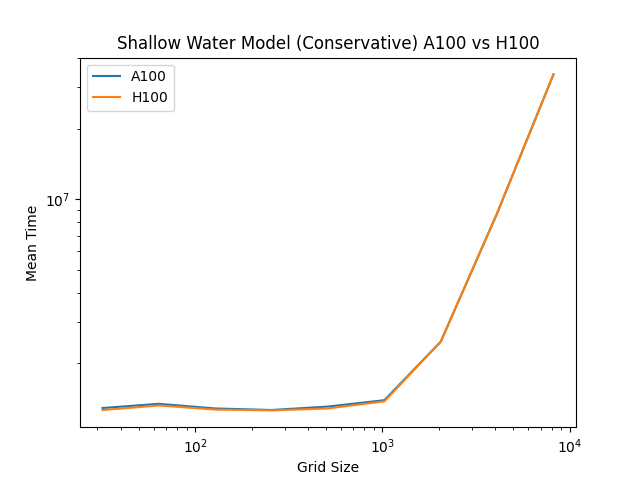
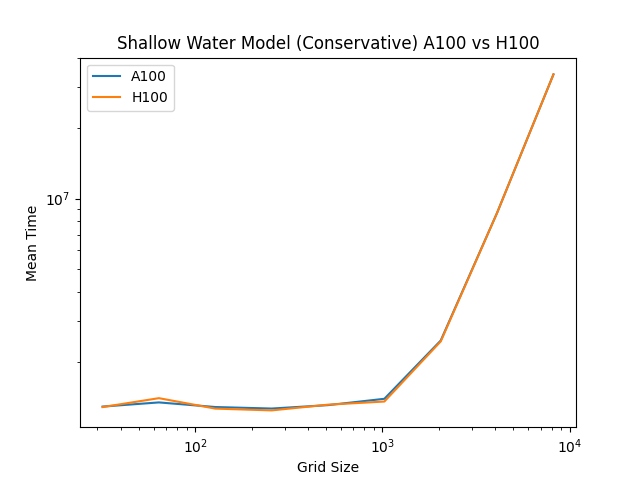
Ran benchmarks again

diff --git a/new_benchmarks/2d_plotter.py b/new_benchmarks/2d_plotter.py
@@ -8,7 +8,7 @@ non_hydrostatic_a100 = data_a100[(data_a100["Model"] == "Nonhydrostatic")]
 shallow_water_a100 = data_a100[(data_a100["Model"] == "ShallowWater")]
 shallow_water_conservative_a100 = data_a100[(data_a100["Model"] == "ShallowWaterConservative")]
 
-data_h100 = pd.read_csv("./H100.csv", delimiter=",",index_col=None)
+data_h100 = pd.read_csv("../../Oceananigans_Benchmark:2024-08-13T18:48:46.040.csv", delimiter=",",index_col=None)
 hydrostatic_h100 = data_h100[(data_h100["Model"] == "Hydrostatic")]
 non_hydrostatic_h100 = data_h100[(data_h100["Model"] == "Nonhydrostatic")]
 shallow_water_h100 = data_h100[(data_h100["Model"] == "ShallowWater")]
